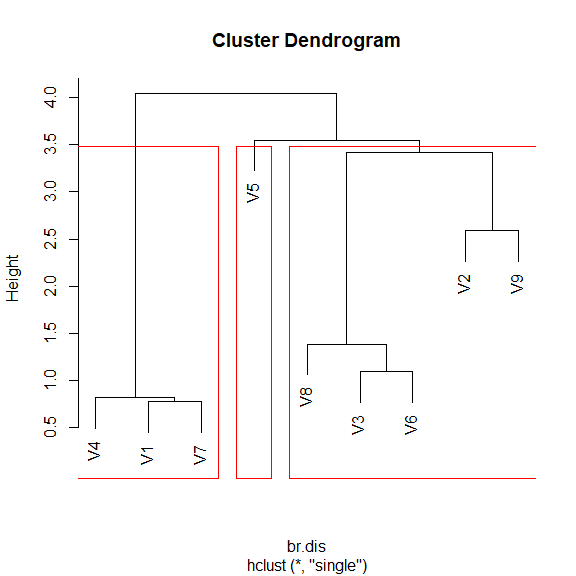
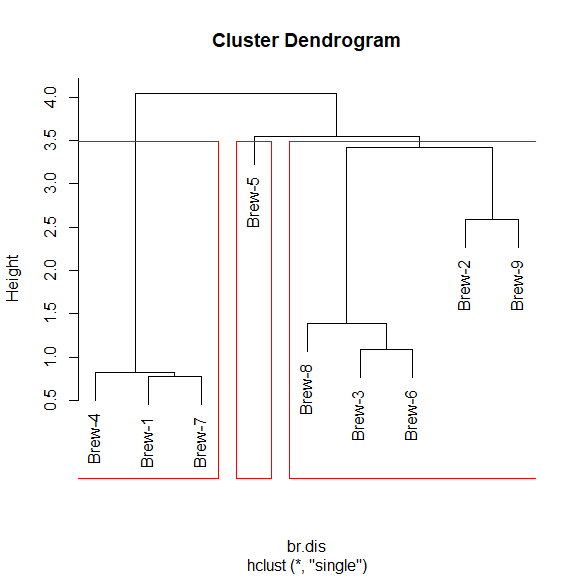
updated lec notes

diff --git a/Lecture21/README.md b/Lecture21/README.md
@@ -1,7 +1,7 @@
 STAT406 - Lecture 21 notes
 ================
 Matias Salibian-Barrera
-2018-11-23
+2018-11-26
 
 LICENSE
 -------
@@ -21,22 +21,23 @@ Hierarchical clustering refers to a class of algorithms that work in a different
 The general algorithm can be described as follows:
 
 1.  Set *K = n* (the number of observations in the data), and Start with *n* clusters;
-2.  Merge 2 clusters to form *K-1* clusters;
-3.  Set `K = K - 1` (i.e. `K--`, i.e. decrease *K* by one)
-4.  If `K > 1` repeat from step 2 above.
+2.  While *K &gt; 1*:
+    1.  Merge 2 clusters to form *K-1* clusters;
+    2.  Set `K = K - 1` (i.e. decrease *K* by one).
 
-The different versions (*flavours*) of this method are obtained by varying the criteria to decide which 2 clusters to merge at each run of step 2 above, and also which distance (or dissimilarity) measure is used.
+The different versions (*flavours*) of this method are obtained by varying the criteria to decide which 2 clusters to merge at each run of step 2(i) above, which depends on how we measure the distance (or dissimilarity) between clusters.
 
-There are a few different tools to decide how many clusters may be present in the data following a hierarchical clustering algorithm. The most commonly used is a graphical representation of the sequence of clusters, called a dendogram.
+There are a few different tools to decide how many clusters may be present in the data following a hierarchical clustering algorithm. The most commonly used is a graphical representation of the sequence of clusters, called a *dendogram*.
 
-Please refer to your class notes for details on the different merging criteria and the interpretation of a dendogram. Below we will illustrate the use of these algorithms on a few examples.
+Please refer to your class notes for details on the different merging criteria (i.e. deciding which clusters to combine at each step) and the interpretation of a dendogram. Below we will illustrate the use of these algorithms on a few examples.
 
 #### Breweries example
 
-Beer drinkers were asked to rate 9 breweries on 26 attributes. The attributes were, e.g., Brewery has rich tradition; or Brewery makes very good Pils beer. Relative to each attribute, the informant had to assign each brewery a score on a 6-point scale ranging from 1=not true at all to 6=very true. We read the data, and compute the pairwise *L\_1* distances between the 9 breweries:
+Beer drinkers were asked to rate 9 breweries on 26 attributes. The attributes were, e.g., Brewery has rich tradition; or Brewery makes very good Pils beer. Relative to each attribute, the informant had to assign each brewery a score on a 6-point scale ranging from 1=not true at all to 6=very true. We read the data, and use the function `dist` to compute the pairwise *L\_1* distances between the 9 breweries. Note that the data are available columnwise (*p* × *x*) so we first transpose it before we compute the distances. We also change the misleading column names assigned by `read.table`, which are not features but rather observation numbers:
 
 ``` r
 x <- read.table('../Lecture19/breweries.dat', header=FALSE)
+colnames(x) <- paste0('Brew-', 1:ncol(x))
 x <- t(x)
 d <- dist(x, method='manhattan')
 ```
@@ -65,11 +66,11 @@ br.hc.3 <- rect.hclust(br.hc, k=3)
 
 ![](README_files/figure-markdown_github/breweries2-1.png)
 
-Note how these 3 clusters are somewhat different from the ones found before. However, the *(V1, V4, V7)* cluster is present in both partitions, and also the triplet *(V3, V6, V8)* stays together as well. You are welcome to explore other variants of this algorithm on this example.
+Note how these 3 clusters are somewhat different from the ones found before. However, the *(V1, V4, V7)* cluster is present in both partitions, and also the triplet *(V3, V6, V8)* stays together as well. It is interesting to compare these clusters with those found by K-means (see previous notes), in particular, these dendograms resemble the information on the silhouette plots to some extent.
 
 #### Languages example
 
-The details of this example were discussed in class. Here we present the results of single linkage, complete linkage and Ward's criterion. First read the available dissimilarities, and arrange them in a proper matrix:
+The details of this example were discussed in class. Here we present the results of three commonly used merging criteria: *single* linkage, *complete* linkage, *average* linkage, and *Ward's* criterion. As usual, we start by reading the data, which in this case are the specific dissimilarities between languages discussed in class, and we arrange them in a matrix that can be used by `hclust`:
 
 ``` r
 dd <- read.table('languages.dat',  header=FALSE)
@@ -78,7 +79,7 @@ dd <- ( dd + t(dd) / 2)
 d <- as.dist(dd)
 ```
 
-Now we compute a hierarchical clustering sequence using **single linkage**
+Now we compute a hierarchical clustering sequence using **single linkage**, plot the corresponding dendogram and identify 4 clusters:
 
 ``` r
 plot(cl <- hclust(d, method='single'), main='', xlab='', sub='', hang=-1)
@@ -87,7 +88,7 @@ rect.hclust(cl, k=4, border='red')
 
 ![](README_files/figure-markdown_github/langs2-1.png)
 
-Compare it with **complete linkage**:
+Compare the above with the results obtained with **complete linkage**:
 
 ``` r
 plot(cl <- hclust(d, method='complete'), main='', xlab='', sub='', hang=-1)
@@ -96,7 +97,16 @@ rect.hclust(cl, k=4, border='red')
 
 ![](README_files/figure-markdown_github/langs3-1.png)
 
-Finally, we use **Ward's criterion**:
+With **average linkage** we obtain:
+
+``` r
+plot(cl <- hclust(d, method='average'), main='', xlab='', sub='', hang=-1)
+rect.hclust(cl, k=4, border='red')
+```
+
+![](README_files/figure-markdown_github/langs3.1-1.png)
+
+And finally, using **Ward's criterion** results in the following dendogram and 4 clusters:
 
 ``` r
 plot(cl <- hclust(d, method='ward.D2'), main='', xlab='', sub='', hang=-1)
@@ -133,58 +143,44 @@ rect.hclust(cl, k=4, border='red')
 <!-- #  -->
 #### Cancer example
 
-Here we revisit the Cancer example discussed before. We use Euclidean distances and Ward's information criterion. Below we show the clusters identified when we stop the algorithm at *K = 8*.
+Here we revisit the Cancer example discussed before. We use Euclidean distances and Ward's information criterion. Below we show the clusters identified when we stop the algorithm at *K = 8*, which based on the dendogram seems to be a reasonable choice:
 
 ``` r
 data(nci, package='ElemStatLearn')
-ncit <- t(nci)
-d <- dist(ncit)
-plot(cl <- hclust(d, method='ward.D2'), main='', xlab='', sub='', hang=-1, labels=rownames(nci))
-rect.hclust(cl, k=8, border='red')
+nci.dis <- dist(t(nci), method='euclidean')
+plot(nci.hc.w <- hclust(nci.dis, method='ward.D2'), main='', 
+     xlab='', sub='', hang=-1, labels=rownames(nci) )
+rect.hclust(nci.hc.w, k=8, border='red')
 ```
 
 ![](README_files/figure-markdown_github/cancer-1.png)
 
-For completeness, below we show the results obtained by the other linkage criteria, including Ward's (without using squared distances).
+For completeness, below we show the results obtained with the other linkage criteria, including Ward's:
 
 ``` r
-# compute pairwise distances
-nci.dis <- dist(t(nci), method='euclidean')
-
-# compute hierarchical clustering using different
-# linkage types
 nci.hc.s <- hclust(nci.dis, method='single')
 nci.hc.c <- hclust(nci.dis, method='complete')
 nci.hc.a <- hclust(nci.dis, method='average')
-nci.hc.w <- hclust(nci.dis, method='ward.D2')
-
-nci.nms <- rownames(nci)
 
 # plot them
-plot(nci.hc.s, labels=nci.nms, cex=.5)
+plot(nci.hc.s, labels=colnames(nci), cex=.5)
 ```
 
 ![](README_files/figure-markdown_github/cancer2-1.png)
 
 ``` r
-plot(nci.hc.c, labels=nci.nms, cex=.5)
+plot(nci.hc.c, labels=colnames(nci), cex=.5)
 ```
 
 ![](README_files/figure-markdown_github/cancer2-2.png)
 
 ``` r
-plot(nci.hc.a, labels=nci.nms, cex=.5)
+plot(nci.hc.a, labels=colnames(nci), cex=.5)
 ```
 
 ![](README_files/figure-markdown_github/cancer2-3.png)
 
-``` r
-plot(nci.hc.w, labels=nci.nms, cex=.5)
-# identify 8 clusters
-rect.hclust(nci.hc.w, k=8)
-```
-
-![](README_files/figure-markdown_github/cancer2-4.png)
+Note that with these 3 other criteria no clear structure seems apparent in the data.
 
 <!-- #### UN Votes -->
 <!-- ```{r unvotes} -->
@@ -192,7 +188,7 @@ rect.hclust(nci.hc.w, k=8)
 <!-- ``` -->
 #### Nations example
 
-This is a smaller Political Science dataset. Twelve countries were assessed on their perceived "likeness" by Political Science students. Note that in this example there are no measurable features, we only have access to the parwise dissimilarities. Below we show the results of using hierarchical clustering with complete and average linkage merging criteria, which will produce identical clusters.
+This is a smaller Political Science dataset. Twelve countries were assessed on their perceived "likeness" by Political Science students. Note that (as in the Languages example above) in this example we do not have raw observations (features), we only have access to the already determined parwise dissimilarities. Below we show the results of using hierarchical clustering with complete and average linkage merging criteria, which produce identical clusters. You are encouraged to investigate what can be found with other merging criteria.
 
 ``` r
 # read the pairwise dissimilarities
@@ -223,7 +219,7 @@ plot(na.hc, labels=nams2)
 
 #### UN Votes
 
-We revisit here the UN votes example (see Lecture 19). Using Euclidean distances we obtain the following 3 clusters:
+We revisit here the UN votes example (see Lecture 19). Using Euclidean distances and Ward's criterion we obtain the following 3 clusters:
 
 ``` r
 X <- read.table(file='../Lecture19/unvotes.csv', sep=',', row.names=1, header=TRUE) 
@@ -267,7 +263,7 @@ lapply(un.hc.3, names)
     ## [34] "Tanzania"             "Thailand"             "Togo"                
     ## [37] "Trinidad.and.Tobago"  "Venezuela"            "Zambia"
 
-If we repeat the same exercise but using *L*<sub>1</sub> distances we get the following:
+If we repeat the same exercise but using *L*<sub>1</sub> distances we obtain different clusters.
 
 ``` r
 un.dis.l1 <- dist(t(X), method='manhattan')
@@ -310,3 +306,33 @@ lapply(un.hc.l1.3, names)
     ## [22] "Peru"                "Philippines"         "Singapore"          
     ## [25] "Tanzania"            "Thailand"            "Togo"               
     ## [28] "Trinidad.and.Tobago" "Uruguay"             "Zambia"
+
+It is easier to compare these 2 sets of clusters if we show them on a map. We first find the cluster labels corresponding to 3 clusters using Euclidean and *L*<sub>1</sub> distances:
+
+``` r
+labs <- cutree(un.hc, k=3)
+labs.l1 <- cutree(un.hc.l1, k=3)
+```
+
+We can now use these labels to color a map, as we did previously. For the Euclidean distances we obtain:
+
+``` r
+library(rworldmap)
+library(countrycode)
+these <- countrycode(colnames(X), 'country.name', 'iso3c')
+malDF <- data.frame(country = these, cluster = labs)
+malMap <- joinCountryData2Map(malDF, joinCode = "ISO3", nameJoinColumn = "country")
+par(mai=c(0,0,0,0),xaxs="i",yaxs="i")
+mapCountryData(malMap, nameColumnToPlot="cluster", catMethod = "categorical",
+               missingCountryCol = 'white', addLegend=FALSE, mapTitle="",
+               colourPalette=c('darkgreen', 'hotpink', 'tomato', 'blueviolet', 'yellow'),
+               oceanCol='dodgerblue')
+```
+
+![](README_files/figure-markdown_github/unvotes.maps.1-1.png)
+
+While with the *L*<sub>1</sub> distances we get:
+
+![](README_files/figure-markdown_github/unvotes.maps.2.2-1.png)
+
+Recall that, as discussed in class, the analyses above may be questionable, because these distance measures do not take into account the actual nature of the available features.
